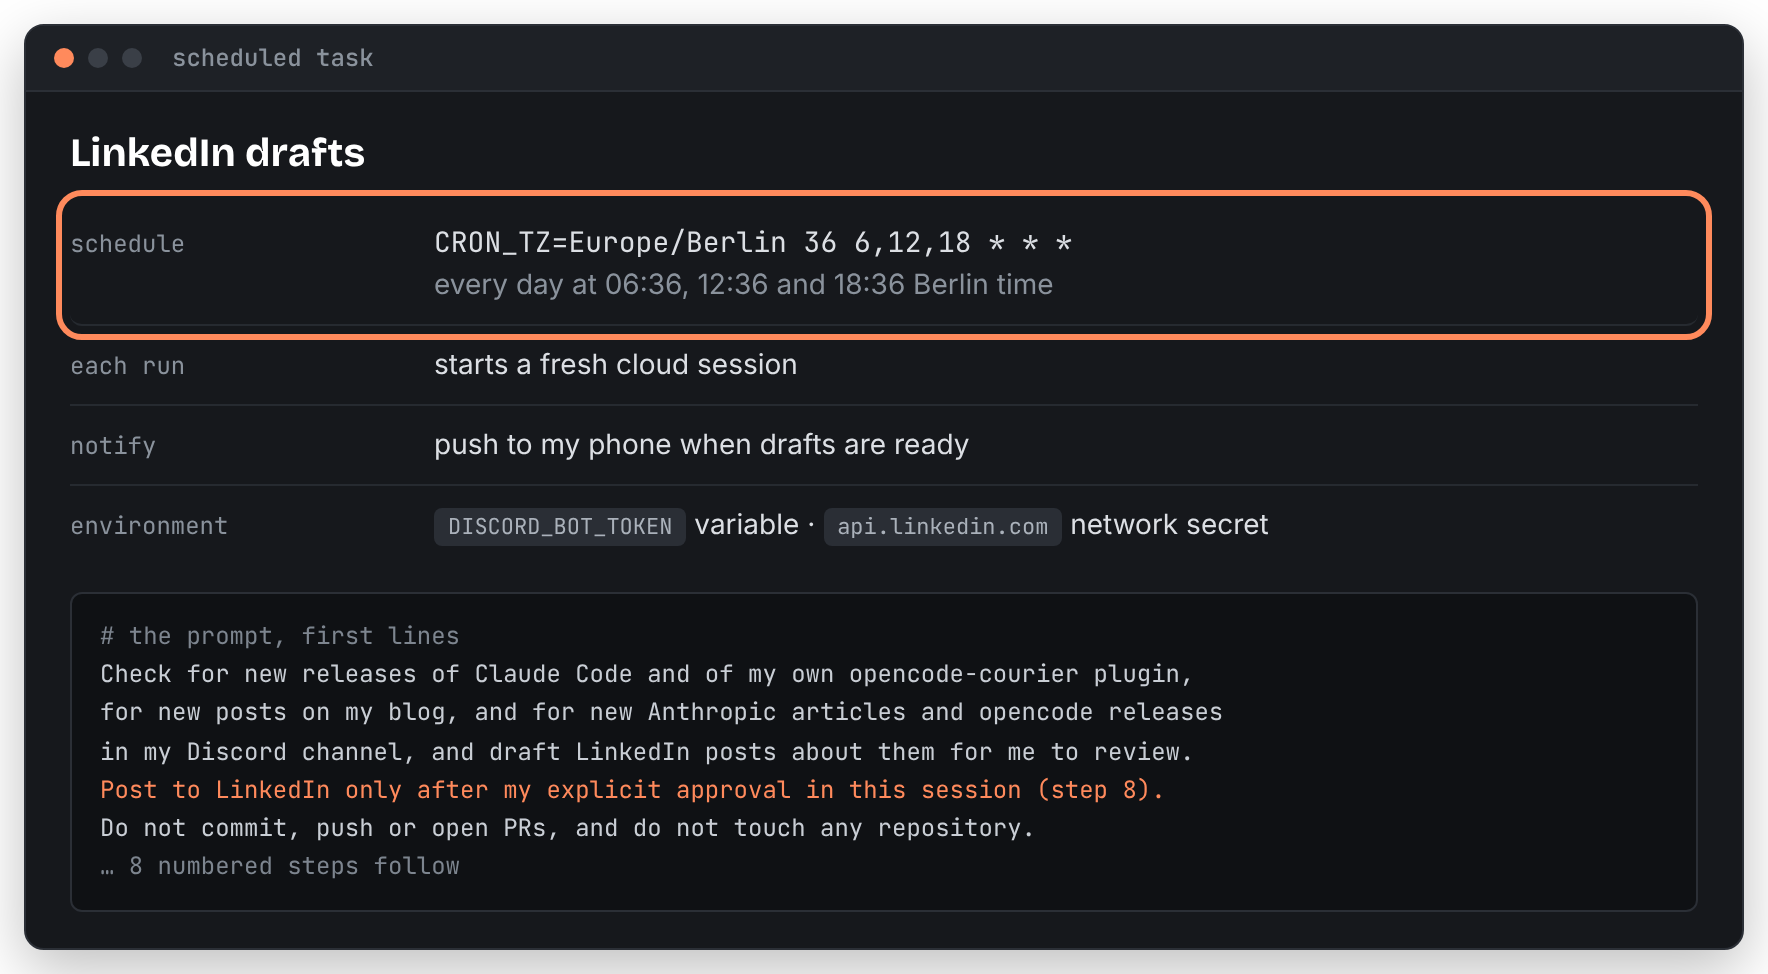
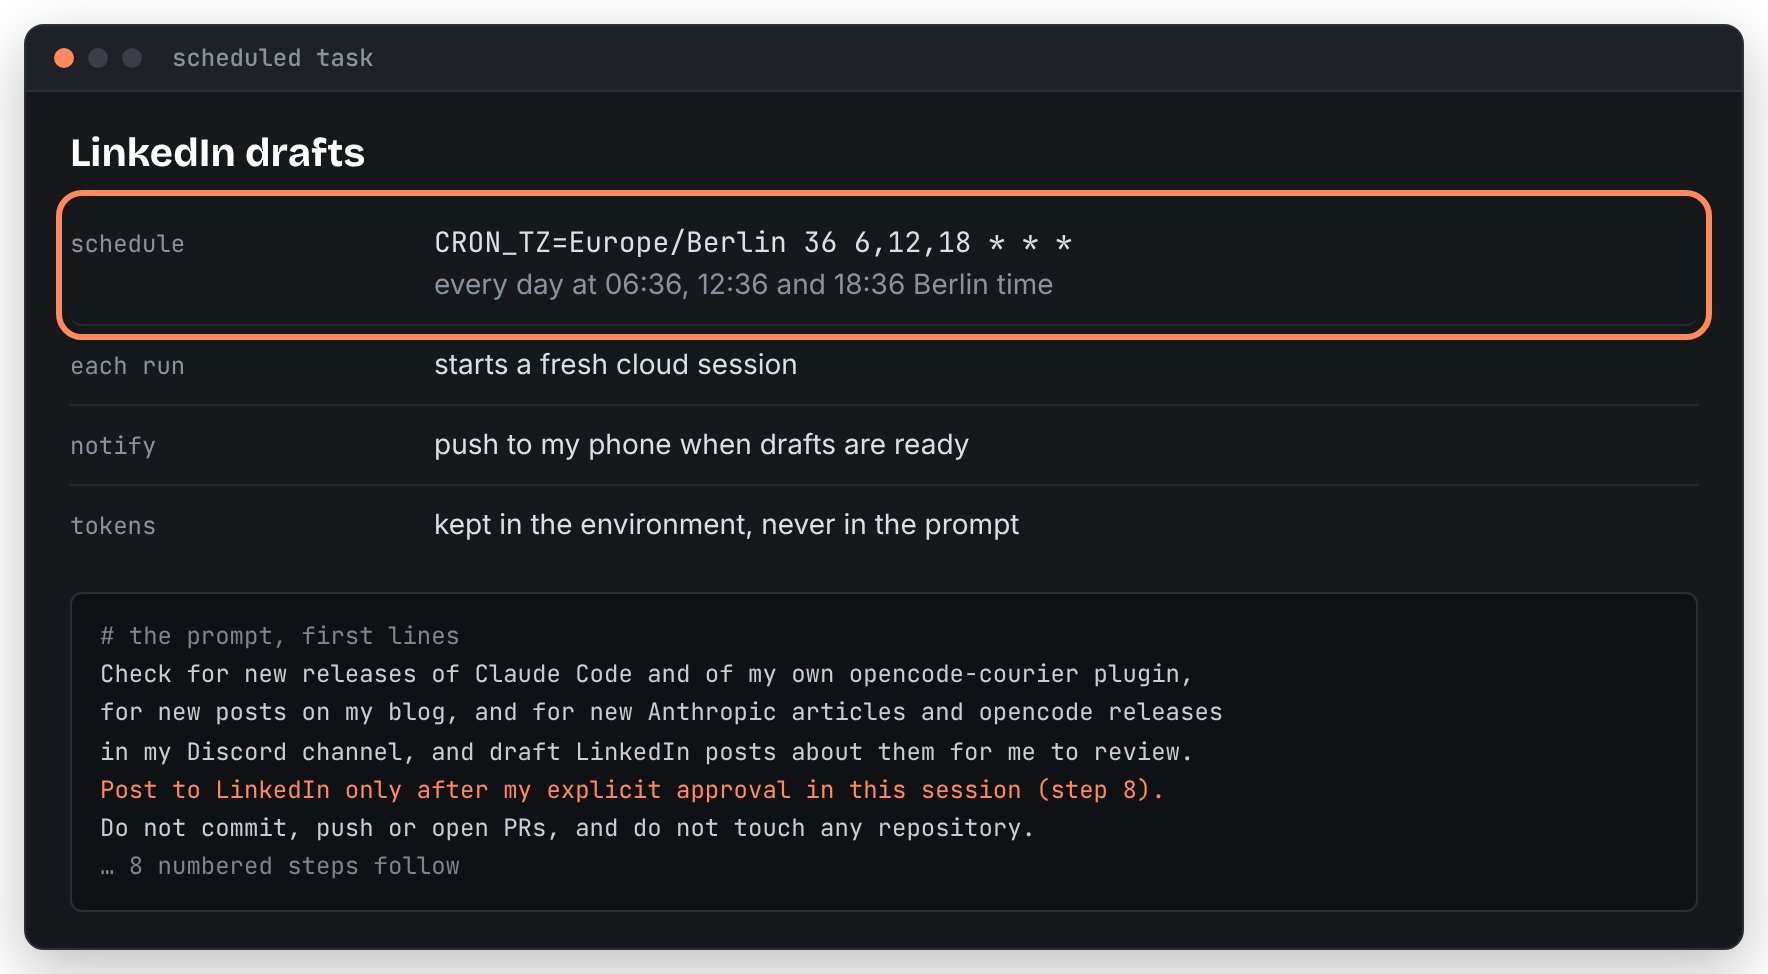
Draft post: fewer private details, a closing on doing the same
Step 3 no longer names the token variable and says a network secret is
the safer home for the bot token. The bot's name and the environment
details are gone from the screenshots. The closing section now explains
how to have a coding agent follow the steps, with a prompt to copy.

Claude-Session: https://claude.ai/code/session_0138xCuBhLJmBVSkqjC2Gykd

Changed region(s): [[0.2178, 0.5236, 0.7155, 0.5852], [0.0311, 0.5236, 0.1244, 0.5544]]

diff --git a/_posts/2026-11-25-claude-code-task-drafts-my-linkedin-posts.md b/_posts/2026-11-25-claude-code-task-drafts-my-linkedin-posts.md
@@ -9,11 +9,10 @@ date: 2026-11-25 22:00:00 +0000
 published: false
 ---
 
-I wanted to turn the announcements I already read into short LinkedIn posts,
-without copying links around by hand. The announcements live in public Discord
-channels, and a cloud session cannot read Discord on its own: a channel can
-only be read by someone who is in that server. So the plan became a small
-chain, with a person at the one step that matters.
+I wanted to turn the announcements I already read into short LinkedIn posts.
+They live in public Discord channels, which only members of a server can read,
+and a cloud session is not a member. So the plan became a small chain, with a
+person at the one step that matters.
 
 ## How it fits together
 
@@ -25,8 +24,8 @@ chain, with a person at the one step that matters.
   <li><b>LinkedIn</b><span>posted through the API, only after I approve</span></li>
 </ol>
 
-The same run also checks npm for new Claude Code and opencode-courier versions
-and this blog's feed, but the Discord part is what needed the most setup.
+The same run also checks npm and this blog's feed, but Discord needed the most
+setup.
 
 ## The steps
 
@@ -38,11 +37,10 @@ and this blog's feed, but the Discord part is what needed the most setup.
 I made a Discord server only I am in, with one channel, `#claude-updates`.
 On each announcement channel I wanted, I pressed **Follow** and picked that
 channel. From then on every new post is copied into it, with its preview card.
-A link I paste there myself counts as well, which was how I tested the first
-run, before anything had arrived.
+A link I paste there myself counts too.
 
 <figure class="shot" data-focus='[{"label":"the state message","x":0.098,"y":0.458,"w":0.514,"h":0.064}]'>
-<div class="shot-view"><img src="{{ '/assets/images/claude-code-task-drafts-my-linkedin-posts/inbox.png' | relative_url }}" width="884" height="502" loading="lazy" alt="A dark chat channel named claude-updates. Two notices say I followed Claude updates and OpenCode releases into it. A link I pasted and a followed research post each carry a memo reaction. A pinned message from the bot, Update Reader, reads: linkedin-drafts state: claude-code=2.1.332 courier=1.0.0; that text is outlined in orange."></div>
+<div class="shot-view"><img src="{{ '/assets/images/claude-code-task-drafts-my-linkedin-posts/inbox.png' | relative_url }}" width="884" height="502" loading="lazy" alt="A dark chat channel named claude-updates. Two notices say I followed Claude updates and OpenCode releases into it. A link I pasted and a followed research post each carry a memo reaction. A pinned message from my bot reads: linkedin-drafts state: claude-code=2.1.332 courier=1.0.0; that text is outlined in orange."></div>
 <figcaption>The private channel. Redrawn from the channel's real messages, with names and IDs left out. The outlined message is the run's memory (step 6).</figcaption>
 </figure>
 
@@ -55,22 +53,24 @@ In the Discord Developer Portal I created an application, added a bot, turned
 on the **Message Content** intent (without it the bot sees messages but not
 their text), and invited it to my server. Its own role allows only **View
 Channel** and **Read Message History**. Sending and adding reactions come from
-the server's default role. The bot never stays connected: Discord does not
-call anyone when a message arrives, so a scheduled task asks it instead.
+the server's default role. The bot never stays connected;
+the scheduled task asks it.
 
 </details>
 
 <details class="step" id="step-3" markdown="1">
-<summary><span class="n">3</span> Two secrets, neither in the chat</summary>
+<summary><span class="n">3</span> Keep the tokens out of the chat</summary>
 
-The bot token went into the cloud environment's settings as the variable
-`DISCORD_BOT_TOKEN`. The LinkedIn token went in through the secure form that a
-session opens for one host, `api.linkedin.com`, and is saved as a network
-secret. The session never sees it: the proxy adds the header on the way out.
+Neither token was pasted into a chat. The LinkedIn token went in through
+a secure form and is stored as a network secret for `api.linkedin.com`: the
+proxy adds it to each request on the way out, so the session never sees it.
+The bot token sits in the cloud environment's settings, and the task only
+checks that it is there. Environment variables are plain text, though, so a
+network secret suits the bot token better.
 
 <figure class="shot" data-focus='[{"label":"no Authorization header","x":0.04,"y":0.274,"w":0.77,"h":0.055}]'>
-<div class="shot-view"><img src="{{ '/assets/images/claude-code-task-drafts-my-linkedin-posts/terminal.png' | relative_url }}" width="884" height="324" loading="lazy" alt="A terminal. A curl to the LinkedIn userinfo endpoint without an Authorization header returns HTTP 200. A check prints token set without printing the token, and a call to the Discord API returns the bot's name, Update Reader."></div>
-<figcaption>Both checks, run in a cloud session today. Neither prints a token.</figcaption>
+<div class="shot-view"><img src="{{ '/assets/images/claude-code-task-drafts-my-linkedin-posts/terminal.png' | relative_url }}" width="884" height="324" loading="lazy" alt="A terminal. A curl to the LinkedIn userinfo endpoint without an Authorization header returns HTTP 200. A check prints token set without printing the token, and a call to the Discord API returns HTTP 200."></div>
+<figcaption>Both checks, run in a cloud session today and redrawn with the variable name shortened. Neither prints a token.</figcaption>
 </figure>
 
 </details>
@@ -78,8 +78,8 @@ secret. The session never sees it: the proxy adds the header on the way out.
 <details class="step" id="step-4" markdown="1">
 <summary><span class="n">4</span> A LinkedIn app and a 60-day token</summary>
 
-LinkedIn wants every developer app linked to a company Page, even when it
-only posts to a personal profile, so the app needed a Page first. Then:
+LinkedIn wants every developer app linked to a company Page, even one that
+posts to a personal profile. Then:
 
 1. In the app, under **Products**, request **Share on LinkedIn** and **Sign In
    with LinkedIn using OpenID Connect**.
@@ -101,7 +101,7 @@ feed, read the channel, draft, record what was drafted, notify me, ask, and
 post only on a clear yes.
 
 <figure class="shot" data-focus='[{"label":"the schedule","x":0.04,"y":0.209,"w":0.921,"h":0.125}]'>
-<div class="shot-view"><img src="{{ '/assets/images/claude-code-task-drafts-my-linkedin-posts/task.png' | relative_url }}" width="884" height="487" loading="lazy" alt="A card for the scheduled task LinkedIn drafts. Schedule: CRON_TZ=Europe/Berlin 36 6,12,18 * * *, every day at 06:36, 12:36 and 18:36. Each run starts a fresh cloud session, sends a push notification, and has the DISCORD_BOT_TOKEN variable and the api.linkedin.com network secret. The first lines of the prompt say to post only after explicit approval."></div>
+<div class="shot-view"><img src="{{ '/assets/images/claude-code-task-drafts-my-linkedin-posts/task.png' | relative_url }}" width="884" height="487" loading="lazy" alt="A card for the scheduled task LinkedIn drafts. Schedule: CRON_TZ=Europe/Berlin 36 6,12,18 * * *, every day at 06:36, 12:36 and 18:36. Each run starts a fresh cloud session and sends a push notification. The first lines of the prompt say to post only after explicit approval."></div>
 <figcaption>The task's settings and the start of its prompt.</figcaption>
 </figure>
 
@@ -110,8 +110,8 @@ post only on a clear yes.
 <details class="step" id="step-6" markdown="1">
 <summary><span class="n">6</span> A memory without a database</summary>
 
-The first version had no memory. A missed run lost its items, and a manual
-run drafted the same article twice. Discord now holds the state. Every message
+The first version had no memory, so a manual run drafted the same article
+twice. Discord now holds the state. Every message
 that has been drafted gets a 📝 reaction from the bot, so the next run skips
 it. The last versions drafted live in one message the bot wrote and I pinned:
 `linkedin-drafts state: claude-code=2.1.332 courier=1.0.0`. A run reads it
@@ -155,18 +155,32 @@ Try it:
 
 A second, one-time scheduled task fires a few days before the 60 days are up.
 It lists the steps to make a new token, opens the secure form again, and checks
-the new one with the same read-only call. It does not post anything.
+the new one with the same read-only call.
 
 </details>
 
 </div>
 
-## What it taught me
+## Doing the same
 
-Most of the work went into what the session must not do: print a token, post
-without a yes, or draft the same thing twice. Reactions and one pinned message
-turned out to be enough memory for a job like this. The screenshots are redrawn
-from one run's real output and the channel's real messages, not captured from
-the apps, and they show drafts, not a published post.
+None of this is code I wrote. Every piece is a setting, a token, or a
+paragraph in the task's prompt, and an agent did the wiring: it worked out the
+API calls, checked each one, and wrote the steps down. Small automations like
+this one have become a matter of describing the job and the rules it must
+keep.
+
+If you want the same, you do not need my prompt. Give your coding agent this
+page and ask it to follow the steps:
+
+```text
+Read https://ivopogace.github.io/blog/posts/claude-code-task-drafts-my-linkedin-posts/
+and set up the same LinkedIn drafts automation for me, one step at a time.
+Tell me which steps I have to do myself, never ask me to paste a token into
+the chat, and never post to LinkedIn without my explicit approval.
+```
+
+The Discord bot and the LinkedIn app still need your own accounts. The screenshots here are redrawn from one run's
+real output and the channel's real messages, and they show drafts, not a
+published post.
 
 <script src="{{ '/assets/js/guide.js' | relative_url }}" defer></script>
